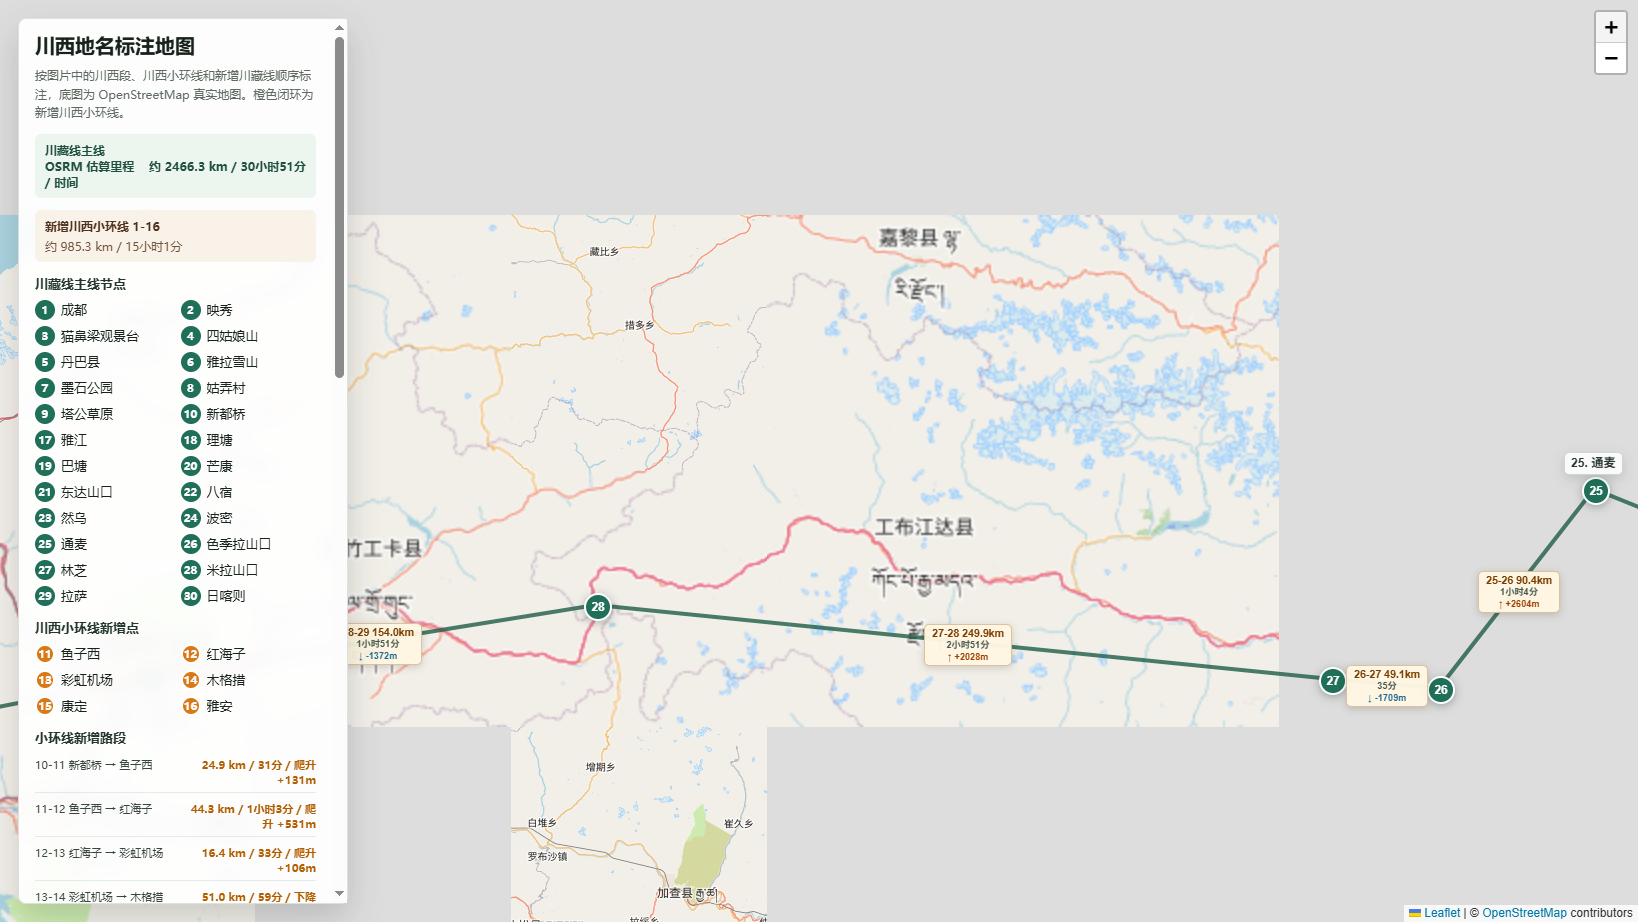
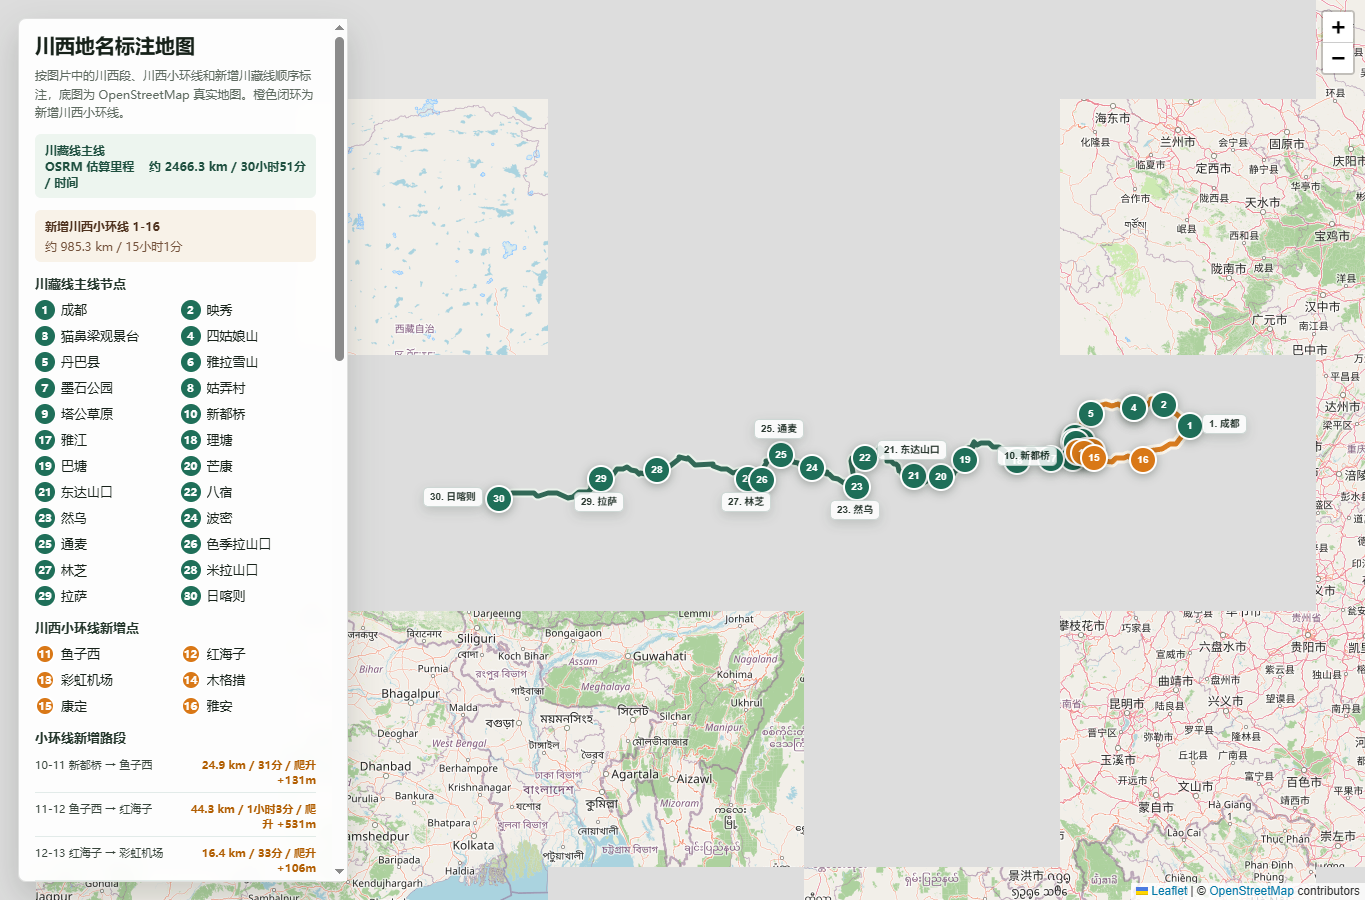
Use OSRM road geometry for routes

diff --git a/index.html b/index.html
@@ -370,7 +370,7 @@
     <ol class="segment-list" id="smallLoopSegmentList"></ol>
     <h2 class="section-title">川藏线主线分段骑行里程与时间</h2>
     <ol class="segment-list" id="segmentList"></ol>
-    <p class="note">注：小环线 11-16 为图片新增节点，按公开地图近似定位。色季拉山口按 G318 鲁朗至林芝之间的山口代表位置取点。分段里程和时间调用 OSRM 路网 API 的 driving profile 估算，作为摩托车道路骑行近似值；海拔趋势按 Open-Meteo DEM 查询的相邻标注点净海拔差计算，不等同于道路累计爬升。</p>
+    <p class="note">注：小环线 11-16 为图片新增节点，按公开地图近似定位。色季拉山口按 G318 鲁朗至林芝之间的山口代表位置取点。分段里程、时间和道路曲线调用 OSRM 路网 API 的 driving profile 估算，作为摩托车道路骑行近似值；海拔趋势按 Open-Meteo DEM 查询的相邻标注点净海拔差计算，不等同于道路累计爬升。</p>
   </aside>
 
   <script
@@ -498,7 +498,7 @@
 
     const map = L.map("map", {
       zoomControl: false,
-      preferCanvas: false
+      preferCanvas: true
     });
 
     L.control.zoom({ position: "topright" }).addTo(map);
@@ -511,29 +511,82 @@
     const routeLatLngs = places.map((place) => [place.lat, place.lng]);
     const smallLoopLatLngs = smallLoopPlaces.map((place) => [place.lat, place.lng]);
     const closedSmallLoopLatLngs = [...smallLoopLatLngs, smallLoopLatLngs[0]];
+    const closedSmallLoopPlaces = [...smallLoopPlaces, smallLoopPlaces[0]];
+    const mainRouteStyles = [
+      {
+        color: "#eef8ef",
+        weight: 9,
+        opacity: 0.78,
+        lineCap: "round",
+        lineJoin: "round"
+      },
+      {
+        color: "#235f4b",
+        weight: 5,
+        opacity: 0.92,
+        lineCap: "round",
+        lineJoin: "round"
+      }
+    ];
+    const smallLoopRouteStyles = [
+      {
+        color: "#fff8ec",
+        weight: 11,
+        opacity: 0.86,
+        lineCap: "round",
+        lineJoin: "round"
+      },
+      {
+        color: "#d97817",
+        weight: 5,
+        opacity: 0.96,
+        lineCap: "round",
+        lineJoin: "round"
+      }
+    ];
 
-    L.polyline(routeLatLngs, {
-      color: "#235f4b",
-      weight: 4,
-      opacity: 0.82,
-      lineJoin: "round"
-    }).addTo(map);
+    const drawRouteLayers = (latLngs, styles) => styles.map((style) => L.polyline(latLngs, style).addTo(map));
+    const replaceRouteLayers = (layers, latLngs, styles) => {
+      layers.forEach((layer) => map.removeLayer(layer));
+      return drawRouteLayers(latLngs, styles);
+    };
+    const keepLoopRouteOnTop = () => {
+      mainRouteLayers.forEach((layer) => layer.bringToFront());
+      smallLoopRouteLayers.forEach((layer) => layer.bringToFront());
+    };
+    const osrmRouteUrl = (routePlaces) => {
+      const coordinates = routePlaces
+        .map((place) => `${place.lng.toFixed(6)},${place.lat.toFixed(6)}`)
+        .join(";");
+      return `https://router.project-osrm.org/route/v1/driving/${coordinates}?overview=full&geometries=geojson&continue_straight=false`;
+    };
+    const fetchRoadLatLngs = async (routePlaces) => {
+      const response = await fetch(osrmRouteUrl(routePlaces));
+      if (!response.ok) throw new Error(`OSRM ${response.status}`);
 
-    L.polyline(closedSmallLoopLatLngs, {
-      color: "#fff8ec",
-      weight: 8,
-      opacity: 0.82,
-      lineCap: "round",
-      lineJoin: "round"
-    }).addTo(map);
+      const data = await response.json();
+      const coordinates = data.routes?.[0]?.geometry?.coordinates;
+      if (data.code !== "Ok" || !Array.isArray(coordinates) || coordinates.length < 2) {
+        throw new Error(data.message ?? "OSRM route geometry unavailable");
+      }
 
-    L.polyline(closedSmallLoopLatLngs, {
-      color: "#d97817",
-      weight: 4,
-      opacity: 0.95,
-      lineCap: "round",
-      lineJoin: "round"
-    }).addTo(map);
+      return coordinates.map(([lng, lat]) => [lat, lng]);
+    };
+    const useRoadRoute = async (routePlaces, styles, currentLayers, setLayers, label) => {
+      try {
+        const roadLatLngs = await fetchRoadLatLngs(routePlaces);
+        setLayers(replaceRouteLayers(currentLayers(), roadLatLngs, styles));
+        keepLoopRouteOnTop();
+      } catch (error) {
+        console.warn(`${label} road route unavailable; using waypoint fallback.`, error);
+      }
+    };
+
+    let mainRouteLayers = drawRouteLayers(routeLatLngs, mainRouteStyles);
+    let smallLoopRouteLayers = drawRouteLayers(closedSmallLoopLatLngs, smallLoopRouteStyles);
+    keepLoopRouteOnTop();
+    useRoadRoute(places, mainRouteStyles, () => mainRouteLayers, (layers) => { mainRouteLayers = layers; }, "Main");
+    useRoadRoute(closedSmallLoopPlaces, smallLoopRouteStyles, () => smallLoopRouteLayers, (layers) => { smallLoopRouteLayers = layers; }, "Small loop");
 
     places.forEach((place, index) => {
       const number = displayNumber(index);

diff --git a/western-sichuan-map.html b/western-sichuan-map.html
@@ -370,7 +370,7 @@
     <ol class="segment-list" id="smallLoopSegmentList"></ol>
     <h2 class="section-title">川藏线主线分段骑行里程与时间</h2>
     <ol class="segment-list" id="segmentList"></ol>
-    <p class="note">注：小环线 11-16 为图片新增节点，按公开地图近似定位。色季拉山口按 G318 鲁朗至林芝之间的山口代表位置取点。分段里程和时间调用 OSRM 路网 API 的 driving profile 估算，作为摩托车道路骑行近似值；海拔趋势按 Open-Meteo DEM 查询的相邻标注点净海拔差计算，不等同于道路累计爬升。</p>
+    <p class="note">注：小环线 11-16 为图片新增节点，按公开地图近似定位。色季拉山口按 G318 鲁朗至林芝之间的山口代表位置取点。分段里程、时间和道路曲线调用 OSRM 路网 API 的 driving profile 估算，作为摩托车道路骑行近似值；海拔趋势按 Open-Meteo DEM 查询的相邻标注点净海拔差计算，不等同于道路累计爬升。</p>
   </aside>
 
   <script
@@ -498,7 +498,7 @@
 
     const map = L.map("map", {
       zoomControl: false,
-      preferCanvas: false
+      preferCanvas: true
     });
 
     L.control.zoom({ position: "topright" }).addTo(map);
@@ -511,29 +511,82 @@
     const routeLatLngs = places.map((place) => [place.lat, place.lng]);
     const smallLoopLatLngs = smallLoopPlaces.map((place) => [place.lat, place.lng]);
     const closedSmallLoopLatLngs = [...smallLoopLatLngs, smallLoopLatLngs[0]];
+    const closedSmallLoopPlaces = [...smallLoopPlaces, smallLoopPlaces[0]];
+    const mainRouteStyles = [
+      {
+        color: "#eef8ef",
+        weight: 9,
+        opacity: 0.78,
+        lineCap: "round",
+        lineJoin: "round"
+      },
+      {
+        color: "#235f4b",
+        weight: 5,
+        opacity: 0.92,
+        lineCap: "round",
+        lineJoin: "round"
+      }
+    ];
+    const smallLoopRouteStyles = [
+      {
+        color: "#fff8ec",
+        weight: 11,
+        opacity: 0.86,
+        lineCap: "round",
+        lineJoin: "round"
+      },
+      {
+        color: "#d97817",
+        weight: 5,
+        opacity: 0.96,
+        lineCap: "round",
+        lineJoin: "round"
+      }
+    ];
 
-    L.polyline(routeLatLngs, {
-      color: "#235f4b",
-      weight: 4,
-      opacity: 0.82,
-      lineJoin: "round"
-    }).addTo(map);
+    const drawRouteLayers = (latLngs, styles) => styles.map((style) => L.polyline(latLngs, style).addTo(map));
+    const replaceRouteLayers = (layers, latLngs, styles) => {
+      layers.forEach((layer) => map.removeLayer(layer));
+      return drawRouteLayers(latLngs, styles);
+    };
+    const keepLoopRouteOnTop = () => {
+      mainRouteLayers.forEach((layer) => layer.bringToFront());
+      smallLoopRouteLayers.forEach((layer) => layer.bringToFront());
+    };
+    const osrmRouteUrl = (routePlaces) => {
+      const coordinates = routePlaces
+        .map((place) => `${place.lng.toFixed(6)},${place.lat.toFixed(6)}`)
+        .join(";");
+      return `https://router.project-osrm.org/route/v1/driving/${coordinates}?overview=full&geometries=geojson&continue_straight=false`;
+    };
+    const fetchRoadLatLngs = async (routePlaces) => {
+      const response = await fetch(osrmRouteUrl(routePlaces));
+      if (!response.ok) throw new Error(`OSRM ${response.status}`);
 
-    L.polyline(closedSmallLoopLatLngs, {
-      color: "#fff8ec",
-      weight: 8,
-      opacity: 0.82,
-      lineCap: "round",
-      lineJoin: "round"
-    }).addTo(map);
+      const data = await response.json();
+      const coordinates = data.routes?.[0]?.geometry?.coordinates;
+      if (data.code !== "Ok" || !Array.isArray(coordinates) || coordinates.length < 2) {
+        throw new Error(data.message ?? "OSRM route geometry unavailable");
+      }
 
-    L.polyline(closedSmallLoopLatLngs, {
-      color: "#d97817",
-      weight: 4,
-      opacity: 0.95,
-      lineCap: "round",
-      lineJoin: "round"
-    }).addTo(map);
+      return coordinates.map(([lng, lat]) => [lat, lng]);
+    };
+    const useRoadRoute = async (routePlaces, styles, currentLayers, setLayers, label) => {
+      try {
+        const roadLatLngs = await fetchRoadLatLngs(routePlaces);
+        setLayers(replaceRouteLayers(currentLayers(), roadLatLngs, styles));
+        keepLoopRouteOnTop();
+      } catch (error) {
+        console.warn(`${label} road route unavailable; using waypoint fallback.`, error);
+      }
+    };
+
+    let mainRouteLayers = drawRouteLayers(routeLatLngs, mainRouteStyles);
+    let smallLoopRouteLayers = drawRouteLayers(closedSmallLoopLatLngs, smallLoopRouteStyles);
+    keepLoopRouteOnTop();
+    useRoadRoute(places, mainRouteStyles, () => mainRouteLayers, (layers) => { mainRouteLayers = layers; }, "Main");
+    useRoadRoute(closedSmallLoopPlaces, smallLoopRouteStyles, () => smallLoopRouteLayers, (layers) => { smallLoopRouteLayers = layers; }, "Small loop");
 
     places.forEach((place, index) => {
       const number = displayNumber(index);